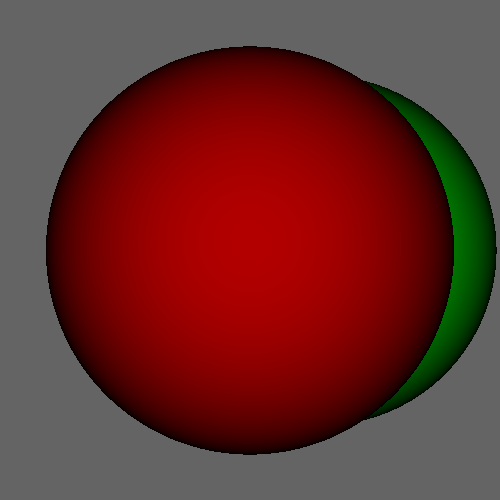
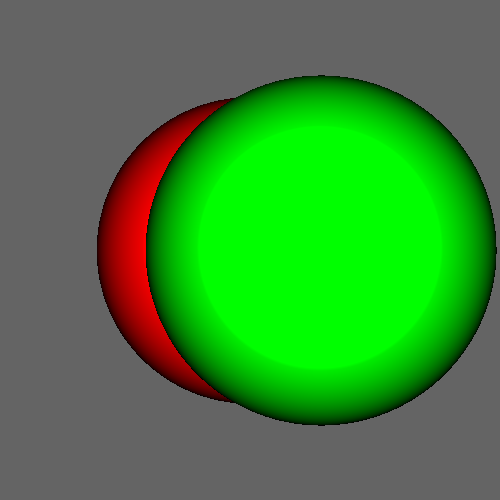
feat: add luz difusa

diff --git a/trabalho1-esfera/esfera.py b/trabalho1-esfera/esfera.py
@@ -1,7 +1,11 @@
 import math
+
 from PIL import Image
 
 def Vetor( x, y, z):
+    return {'x': x, 'y': y, 'z': z}
+
+def Ponto( x, y, z):
     return {'x': x, 'y': y, 'z': z}
     
 def Cor(r, g, b):
@@ -52,55 +56,75 @@ def Intersecao(esfera, observador, D):
         
     return (t1, t2)
 
-def Cena(objeto, v_partida_cameraa):
-    return {'objeto': objeto, 'v_partida_cameraa': v_partida_cameraa}
+def Cena(objetos, posicao_olho_observador):
+    return {'objetos': objetos, 'posicao_olho_observador': posicao_olho_observador}
 
-def Calcula_iluminacao(L, N):
-    Ieyed = 0.0
-    fd = Produto_escalar(N, L)
-    I_F = 0.7
-    #comprimentoN = math.sqrt(Produto_escalar(N, N))
-    #comprimentoL = math.sqrt(Produto_escalar(L, L))
-    if(fd > 0): 
-       Ieyed += I_F * fd
-    return Ieyed
-  
+def Calcula_ponto_intersecao(O, t, D):
+    return Ponto(
+        O['x']+t*D['x'], 
+        O['y']+t*D['y'], 
+        O['z']+t*D['z'], 
+    )
 
-    
+def Calcula_vetor_refletido(L, N):
+    escalar_l_n = Produto_escalar(L, N) * 2
+    vetor_l_n = Vetor(N['x']*escalar_l_n, N['y']*escalar_l_n, N['z']*escalar_l_n)
 
-#cena recebe o raio e retorna a interseção
-def DecideCor(cena, canvas, objetos, D, P_F):
+    return Subtracao_vetores(vetor_l_n, L)
+def Calcula_iluminacao( N, L, r_refletido,v_vetor):
+    intensidade_d = 0.0 
+    intensidade_e = 0.0
+    fd = max(0, Produto_escalar(L, N))
+    fe = max(0, Produto_escalar(r_refletido, v_vetor))
+    I_F = Vetor(0.7, 0.7, 0.7)  # Intensidade da fonte pontual
+    K = Vetor(0.9, 0.5, 0.5)  # Intensidade da fonte pontual
+
+    #luz difusa
+    intensidade_d = Produto_escalar(I_F, K) * fd
+    intensidade_e = Produto_escalar(I_F, K) * fe
+    return intensidade_d + intensidade_e
+
+#cena recebe  o raio e retorna a interseção
+def DecideCor(cena, canvas, D, P_F):
     t_proximo = math.inf
-    esfera_encontrada = None
-    cor_final = objetos[0]['cor']
-
-    for objeto in objetos:
-        [t1, t2] = Intersecao(objeto, cena['v_partida_cameraa'], D)
+    objeto_encontrado = None
+    intensidade = 0.0
+    for objeto in cena['objetos']:
+        [t1, t2] = Intersecao(objeto, cena['posicao_olho_observador'], D)
         if( t1 < t_proximo):
             t_proximo = t1
-            esfera_encontrada = objeto
+            objeto_encontrado = objeto
 
         if( t2 < t_proximo):
             t_proximo = t2
-            esfera_encontrada = objeto
-        
-    if(esfera_encontrada != None):
-        P = Equacao_raio(cena['v_partida_cameraa'], t_proximo, D) #ponto de interseção do raio de direção D com a esfera no ponto t_proximo 
-        
-        N = Subtracao_vetores(P, esfera_encontrada['centro']) #vetor normal que sai no ponto P
-        N = Vetor(N['x']/esfera_encontrada['r'], N['y']/esfera_encontrada['r'], N['z']/esfera_encontrada['r']) #normalizando
-        
-        L = Subtracao_vetores(P_F , P ) #vetor unitario que sai do ponto P e vai em direção ao ponto de luz P_F
+            objeto_encontrado = objeto
+    if(objeto_encontrado != None):
+        P = Calcula_ponto_intersecao(cena['posicao_olho_observador'],t_proximo , D) #ponto que o raio atual incidiu
+
+    
+        N = Subtracao_vetores(P, objeto_encontrado['centro'])
+        N = Vetor(N['x']/objeto_encontrado['r'], N['y']/objeto_encontrado['r'], N['z']/objeto_encontrado['r']) #normalizando o vetor N
+        #calculo do L
+        L = Subtracao_vetores(P_F, P)
         comprimentoL = math.sqrt(Produto_escalar(L, L))
-        L = Vetor(L['x']/comprimentoL, L['y']/comprimentoL, L['z']/comprimentoL) #normalizando
-        cor_final = Calcula_iluminacao(L, N)
-       
-    if(esfera_encontrada == None):
+        L = Vetor(L['x']/comprimentoL, L['y']/comprimentoL, L['z']/comprimentoL)
+        #calculo do I
+        # I = Subtracao_vetores(P, P_F)
+        # comprimentoI = math.sqrt(Produto_escalar(I, I))
+        # I = Vetor(I['x']/comprimentoI, I['y']/comprimentoI, I['z']/comprimentoI)
+        
+        v_vetor = Subtracao_vetores(cena['posicao_olho_observador'], P)
+        comprimentoV = math.sqrt(Produto_escalar(v_vetor, v_vetor)) 
+        v_vetor = Vetor(v_vetor['x']/comprimentoV, v_vetor['y']/comprimentoV, v_vetor['z']/comprimentoV)
+        r_vetor_refletido = Calcula_vetor_refletido(L, N)
+        intensidade = Calcula_iluminacao( N, L, r_vetor_refletido, v_vetor)
+ 
+    if(objeto_encontrado == None):
         return canvas['cor_fundo']
 
-    return Cor(round(esfera_encontrada['cor']['r']*cor_final), 
-            round(esfera_encontrada['cor']['g']*cor_final), 
-            round(esfera_encontrada['cor']['b']*cor_final))
+    return Cor(round(objeto_encontrado['cor']['r']*intensidade),
+                round(objeto_encontrado['cor']['g']*intensidade),
+               round( objeto_encontrado['cor']['b']*intensidade))
 
 
 wJanela = 50 #dimenções da janela, por onde o observador ver o mundo
@@ -109,8 +133,7 @@ dJanela = 100
 wc = 500 #matriz de pixel do CANVAS
 hc = 500
 rEsfera = 25 
-
-P_F = Vetor(0, 5, 0) #Posição da fonte pontual situada a 5 metros acima do olho do observador.
+P_F = Ponto(0, 5, 0) #Posição da fonte pontual situada a 5 metros acima do olho do observador.
 
 image = Image.new(mode="RGB", size=(wc, 500))
 pixels = image.load()
@@ -118,20 +141,21 @@ pixels = image.load()
 janela = Janela( wJanela, hJanela, dJanela, wc, hc)  
 canvas = Canvas(wc, hc, Cor(100, 100, 100))
 
-objeto_esfera1 = Esfera(Vetor(0, 0, -(janela['d'] + rEsfera)), rEsfera, Cor(255, 0, 0))
-objeto_esfera2 = Esfera(Vetor(10, 0, -(janela['d'] +rEsfera +20)), rEsfera, Cor(0, 255, 0))
+objeto_esfera1 = Esfera(Ponto(0, 0, -(janela['d'] + rEsfera+40)), rEsfera, Cor(255, 0, 0))
+objeto_esfera2 = Esfera(Ponto(10, 0, -(janela['d'] +rEsfera +20)), rEsfera, Cor(0, 255, 0))
 
-objetos = [objeto_esfera1, objeto_esfera2 ]
-cena = Cena(objetos, Vetor(0, 0, 0))
+objetos = [objeto_esfera1,objeto_esfera2]
+
+cena = Cena(objetos, Ponto(0, 0, 0))
 
 image = Image.new(mode="RGB", size=(canvas['wc'], canvas['hc']))
 pixels = image.load()
 
 for x in range(canvas['wc']):
     for y in range(canvas['hc']):
-        D = CanvasParaJanela(x, y, janela)
-        color = DecideCor(cena, canvas, objetos, D, P_F)
-   
+        D = CanvasParaJanela(x, y, janela) #centro do pixel atual
+        color = DecideCor(cena, canvas, D, P_F)
+
         pixels[x, y] = (color['r'], color['g'], color['b'])
       
 image.save("esfera.png", format="png")
